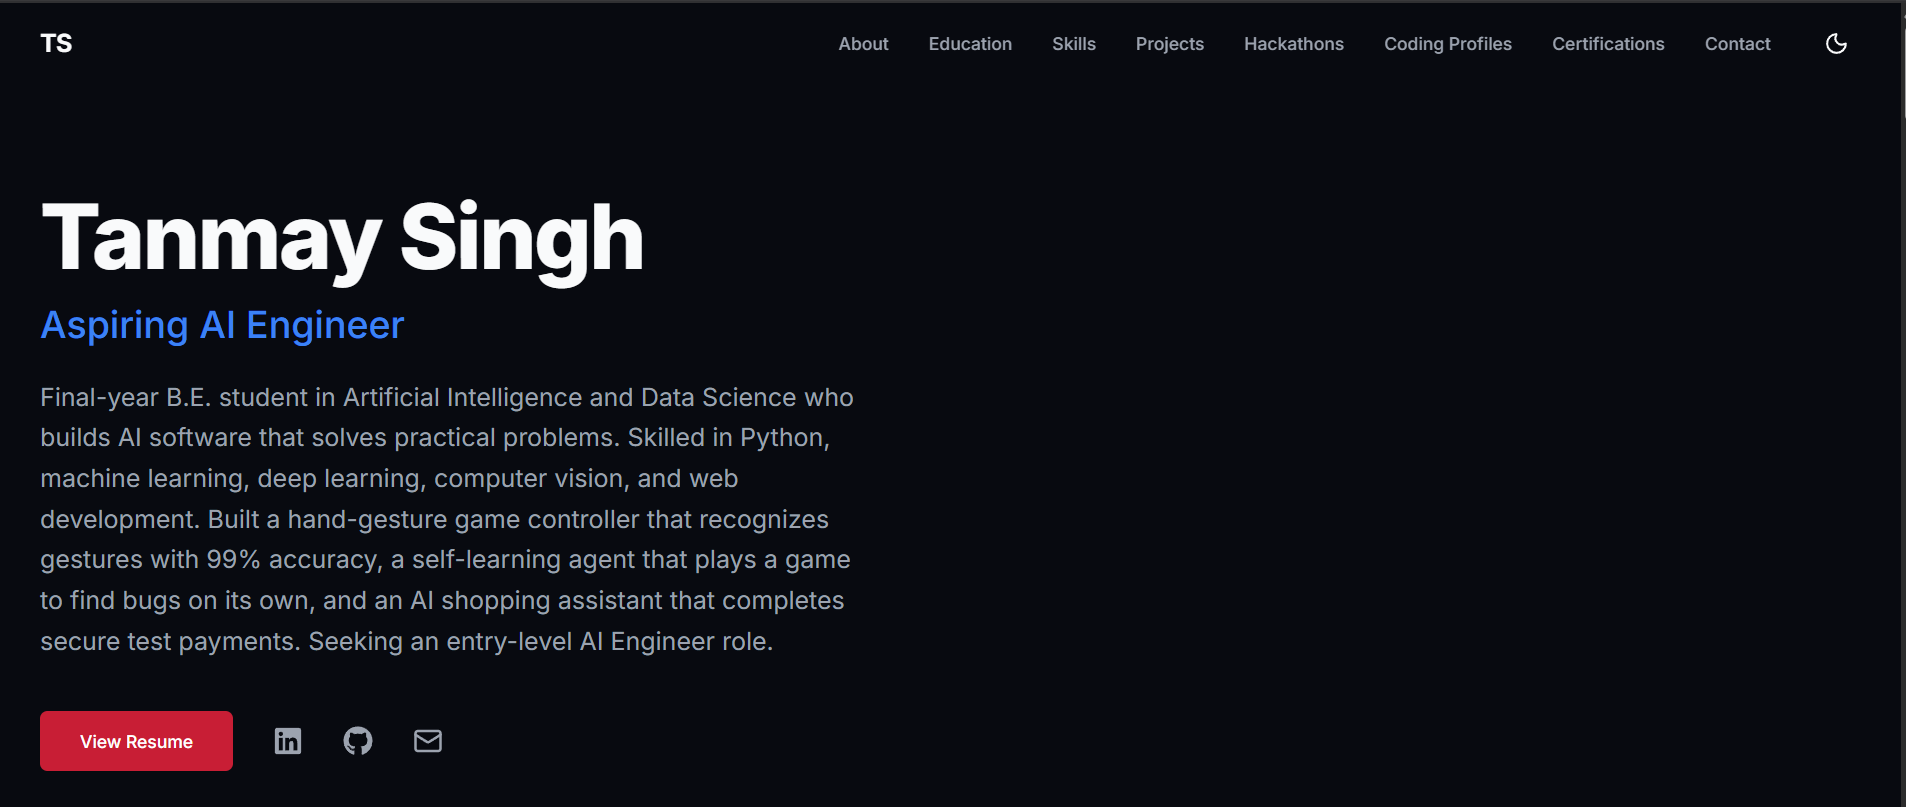
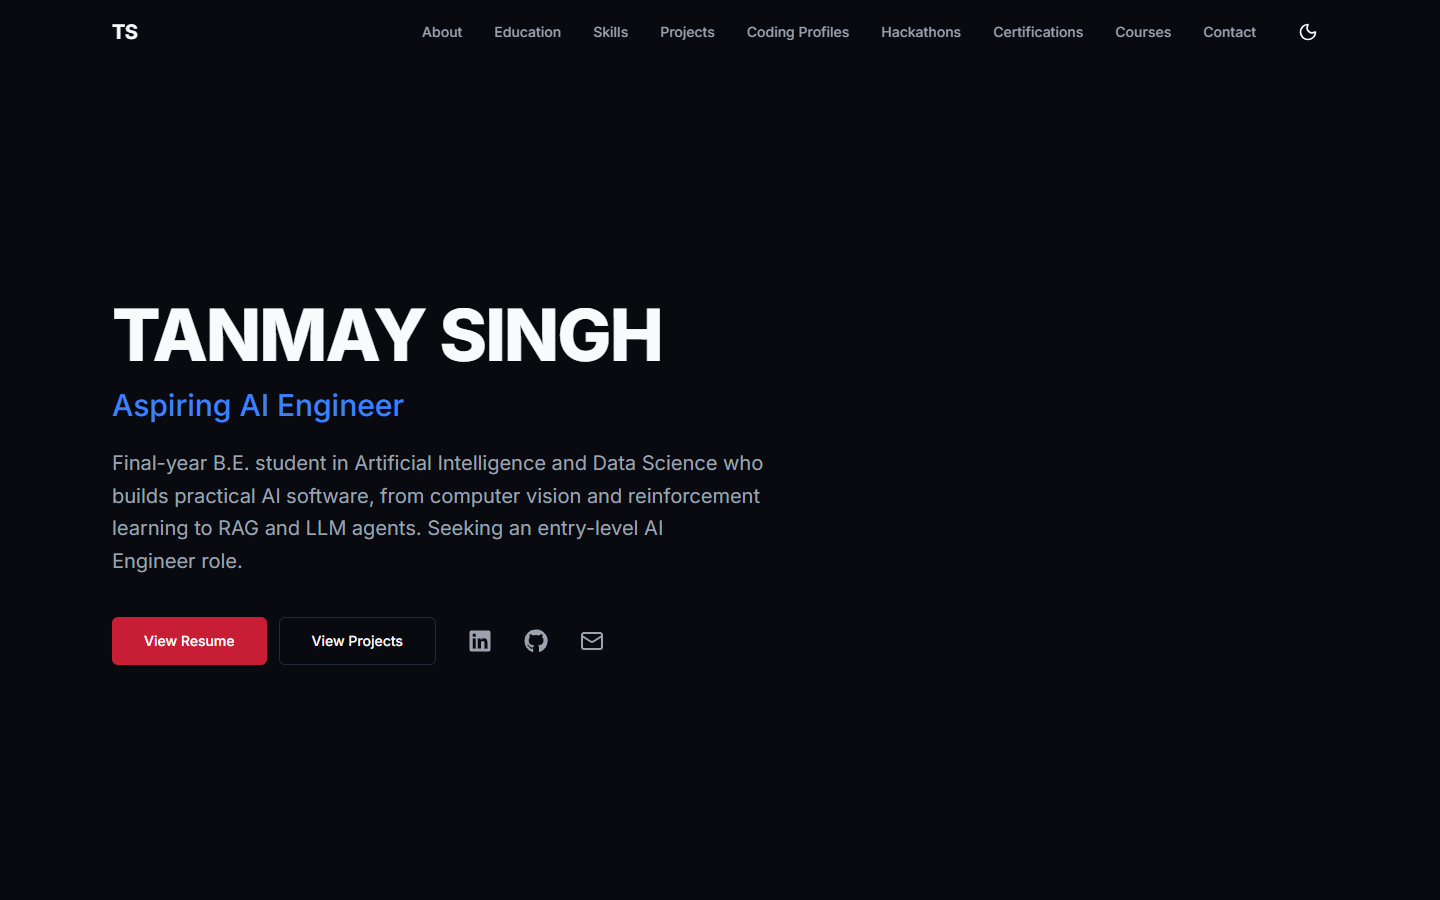
Update

Changed region(s): [[0.0, 0.2478, 0.5312, 0.8055], [0.0, 0.0, 1.0, 0.062], [0.0, 0.8674, 0.25, 0.9603]]

diff --git a/src/data/portfolio.ts b/src/data/portfolio.ts
@@ -13,12 +13,12 @@ export const portfolioData = {
     leetcode: "https://leetcode.com/u/vcYjoLhKrp/",
     resume: "/resume.pdf",
     summary:
-      "Final-year B.E. student in Artificial Intelligence and Data Science who builds AI software that solves practical problems. Skilled in Python, machine learning, deep learning, computer vision, and web development. Built a hand-gesture game controller that recognizes gestures with 99% accuracy, a self-learning agent that plays a game to find bugs on its own, and an AI shopping assistant that completes secure test payments. Seeking an entry-level AI Engineer role.",
+      "Final-year B.E. student in Artificial Intelligence and Data Science who builds practical AI software, from computer vision and reinforcement learning to RAG and LLM agents. Seeking an entry-level AI Engineer role.",
   },
   about: [
     "I am an aspiring AI Engineer and currently a final-year B.E. student specializing in Artificial Intelligence & Data Science. I build AI software that solves practical problems, working mainly in Python along with TypeScript, JavaScript, and SQL.",
-    "My core interests lie in machine learning, deep learning, computer vision, and web development. So far I have built a hand-gesture game controller that recognizes gestures with 99% accuracy, a self-learning agent that plays a game to find bugs on its own, and an AI shopping assistant that completes secure test payments.",
-    "As a continuous learner, I thrive on adapting to new technologies and methodologies to build scalable, intelligent systems that make a tangible impact.",
+    "My core interests are machine learning, deep learning, computer vision, and generative AI. So far I have built a hand-gesture game controller that recognizes gestures with 99% accuracy, a self-learning agent that plays a game to find bugs on its own, an AI shopping assistant that completes secure test payments, and an offline research assistant that answers questions about PDFs with page-level citations.",
+    "I like to measure my work instead of guessing. I track numbers such as test accuracy, retrieval hit rate, and response time, and use them to decide what to improve next.",
   ],
   education: [
     {
@@ -44,10 +44,11 @@ export const portfolioData = {
         "OpenCV",
         "NumPy",
         "Matplotlib",
-        "Google Gemini API",
-        "RAG",
-        "Ollama",
       ],
+    },
+    {
+      category: "Generative AI & LLMs",
+      items: ["RAG", "FAISS", "Ollama", "Google Gemini API"],
     },
     {
       category: "Frameworks & Libraries",
@@ -55,7 +56,7 @@ export const portfolioData = {
     },
     {
       category: "APIs & Databases",
-      items: ["REST APIs", "Razorpay API", "PostgreSQL", "FAISS"],
+      items: ["REST APIs", "Razorpay API", "PostgreSQL"],
     },
     {
       category: "Developer Tools",

diff --git a/src/components/sections/Hero.tsx b/src/components/sections/Hero.tsx
@@ -15,19 +15,27 @@ export function Hero() {
           <h2 className="text-2xl md:text-3xl font-medium text-accent-blue mb-6">
             {personal.title}
           </h2>
-          <p className="text-lg md:text-xl text-muted-foreground mb-10 max-w-2xl leading-relaxed">
+          <p className="text-lg md:text-xl text-muted-foreground mb-10 max-w-2xl leading-relaxed text-pretty">
             {personal.summary}
           </p>
           
           <div className="flex flex-col sm:flex-row items-start sm:items-center gap-6">
-            <a
-              href={personal.resume}
-              target="_blank"
-              rel="noopener noreferrer"
-              className="inline-flex h-12 items-center justify-center rounded-md bg-accent-red px-8 text-sm font-medium text-white shadow transition-colors hover:bg-accent-red/90 focus-visible:outline-none focus-visible:ring-1 focus-visible:ring-accent-red"
-            >
-              View Resume
-            </a>
+            <div className="flex flex-wrap items-center gap-3">
+              <a
+                href={personal.resume}
+                target="_blank"
+                rel="noopener noreferrer"
+                className="inline-flex h-12 items-center justify-center rounded-md bg-accent-red px-8 text-sm font-medium text-white shadow transition-colors hover:bg-accent-red/90 focus-visible:outline-none focus-visible:ring-1 focus-visible:ring-accent-red"
+              >
+                View Resume
+              </a>
+              <a
+                href="#projects"
+                className="inline-flex h-12 items-center justify-center rounded-md border border-border px-8 text-sm font-medium text-foreground transition-colors hover:border-accent-blue hover:text-accent-blue focus-visible:outline-none focus-visible:ring-1 focus-visible:ring-accent-blue"
+              >
+                View Projects
+              </a>
+            </div>
             
             <div className="flex items-center gap-4">
               <a

diff --git a/src/components/sections/Contact.tsx b/src/components/sections/Contact.tsx
@@ -39,9 +39,9 @@ export function Contact() {
   ];
 
   return (
-    <Section id="contact" className="bg-muted/30">
+    <Section id="contact">
       <SectionHeading>Contact</SectionHeading>
-      <div className="max-w-4xl mx-auto">
+      <div className="max-w-4xl">
         <div className="grid grid-cols-1 md:grid-cols-2 gap-6">
           {contactMethods.map((method) => (
             <a

diff --git a/src/components/sections/Hackathons.tsx b/src/components/sections/Hackathons.tsx
@@ -8,7 +8,7 @@ export function Hackathons() {
   const { hackathons } = portfolioData;
 
   return (
-    <Section id="hackathons">
+    <Section id="hackathons" className="bg-muted/30">
       <SectionHeading>Hackathons</SectionHeading>
       <div className="grid grid-cols-1 md:grid-cols-2 gap-6">
         {hackathons.map((hackathon) => (

diff --git a/src/components/sections/Courses.tsx b/src/components/sections/Courses.tsx
@@ -8,7 +8,7 @@ export function Courses() {
   const { courses } = portfolioData;
 
   return (
-    <Section id="courses">
+    <Section id="courses" className="bg-muted/30">
       <SectionHeading>Courses</SectionHeading>
       <div className="grid grid-cols-1 md:grid-cols-2 lg:grid-cols-3 gap-6">
         {courses.map((course) => (

diff --git a/src/app/layout.tsx b/src/app/layout.tsx
@@ -23,6 +23,9 @@ export const metadata: Metadata = {
     "Tanmay Singh",
     "AI Engineer",
     "Machine Learning",
+    "Computer Vision",
+    "Generative AI",
+    "RAG",
     "Software Developer",
     "Portfolio",
     "Artificial Intelligence",

diff --git a/README.md b/README.md
@@ -21,7 +21,23 @@
 
 ### Home page (dark mode)
 
-![Portfolio home page](docs/screenshot-home.png)
+![Portfolio home page in dark mode](docs/screenshot-home.png)
+
+### Home page (light mode)
+
+![Portfolio home page in light mode](docs/screenshot-light.png)
+
+### Projects
+
+![Projects section with four project cards](docs/screenshot-projects.png)
+
+### Skills
+
+![Skills section grouped into six categories](docs/screenshot-skills.png)
+
+### Mobile
+
+<img src="docs/screenshot-mobile.png" alt="Portfolio home page on a phone" width="300">
 
 The best preview is the live site: **[tanmayportfolio-five.vercel.app](https://tanmayportfolio-five.vercel.app)**.
 
@@ -60,10 +76,10 @@ The page shows these sections, in this order:
 
 | Section | What it shows |
 |---|---|
-| Hero | Name, title, short summary, a **View Resume** button, and GitHub / LinkedIn / email icons |
+| Hero | Name, title, short summary, **View Resume** and **View Projects** buttons, and GitHub / LinkedIn / email icons |
 | About | A few short paragraphs about me |
 | Education | Degree, college, location, years, and CGPA |
-| Skills | Skills grouped by category (languages, AI & ML, frameworks, APIs & databases, tools) |
+| Skills | Skills in six groups: languages, AI & ML, generative AI & LLMs, frameworks, APIs & databases, and developer tools |
 | Projects | Project cards with the tech stack, a description, and a **View on GitHub** button |
 | Coding Profiles | Links to GeeksforGeeks, HackerRank, and LeetCode |
 | Hackathons | Hackathon participation, each with a link to its certificate |
@@ -152,6 +168,8 @@ It runs on Windows, macOS, and Linux.
 
 ## Installation
 
+These steps are for the author and for anyone given written permission (see [License](#license)).
+
 ```bash
 git clone https://github.com/TanmaySingh2711/tanmay_portfolio.git
 cd tanmay_portfolio
@@ -174,7 +192,7 @@ setup.bat
 ./setup.sh
 ```
 
-On Windows you can also double-click `run_portfolio.bat`. It runs the setup first if dependencies are missing, starts the dev server in a centered window, and opens the site in your browser once the page is ready. Press Esc in that window to stop the server and close it.
+On Windows you can also double-click `run_portfolio.bat`. It runs the setup first if dependencies are missing, starts the dev server in a centered window, and opens the site in your browser as soon as the server is up (usually within 3 seconds). Press Esc in that window to stop the server and close it.
 
 ## Run Locally
 
